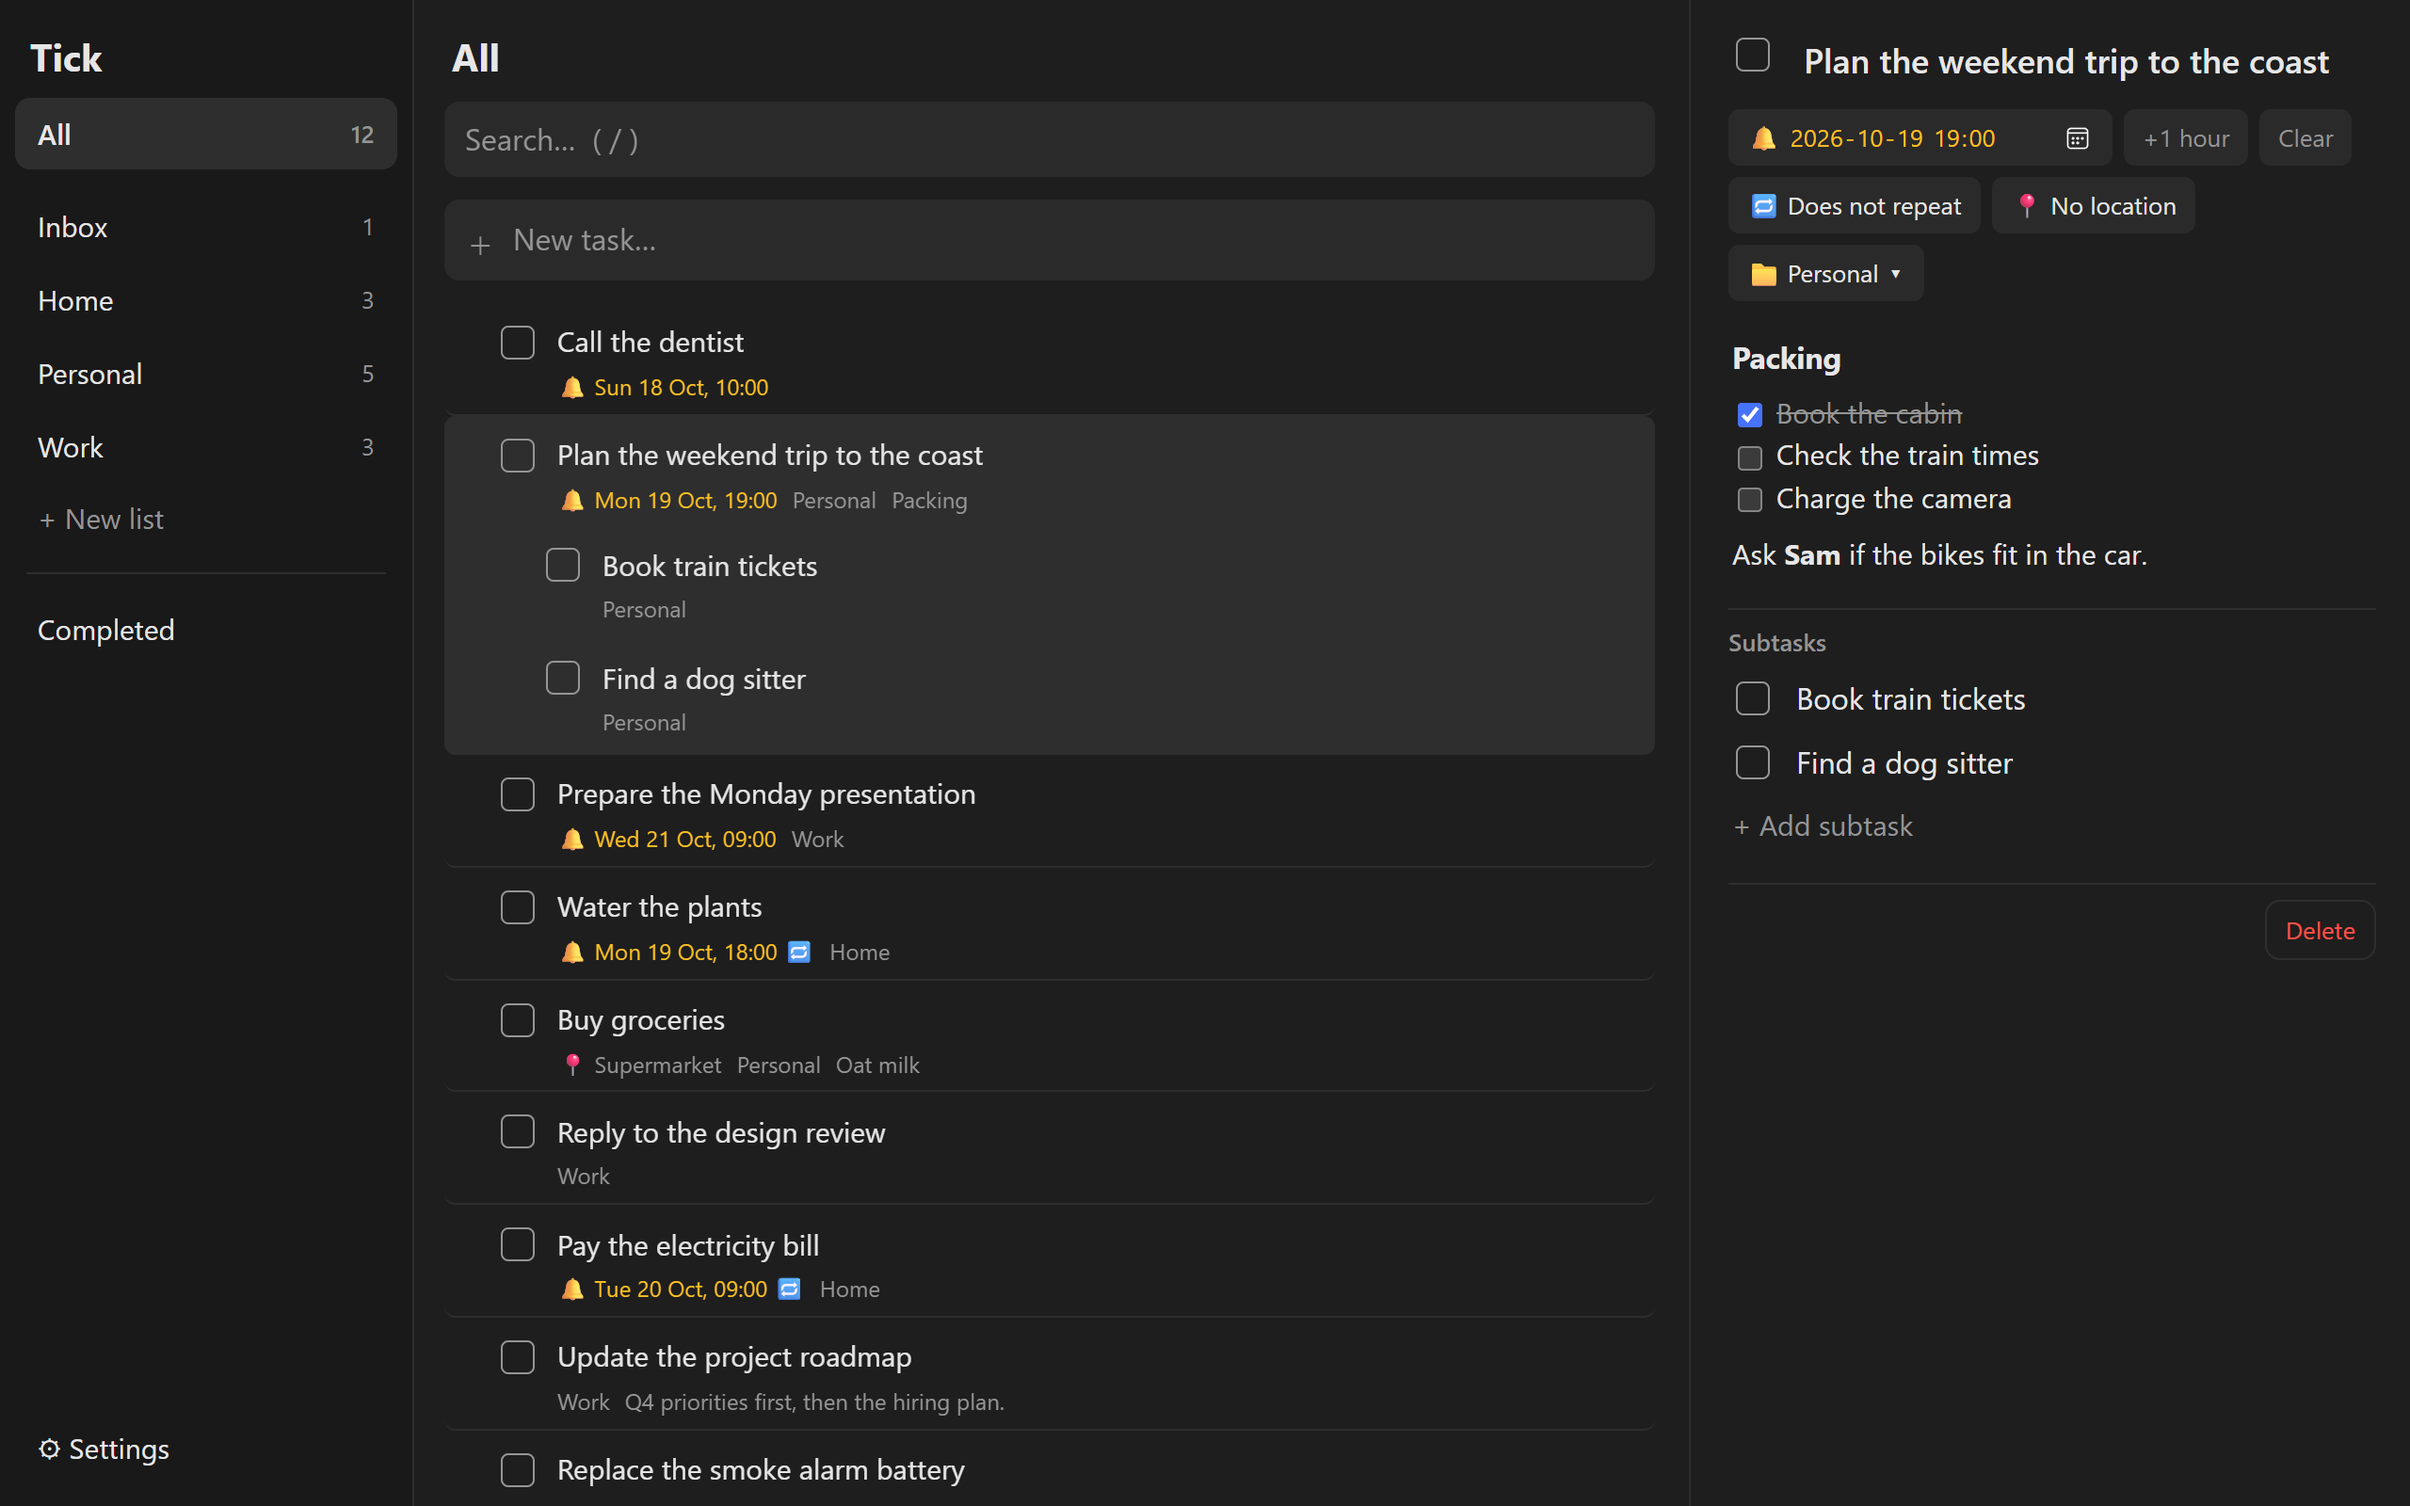
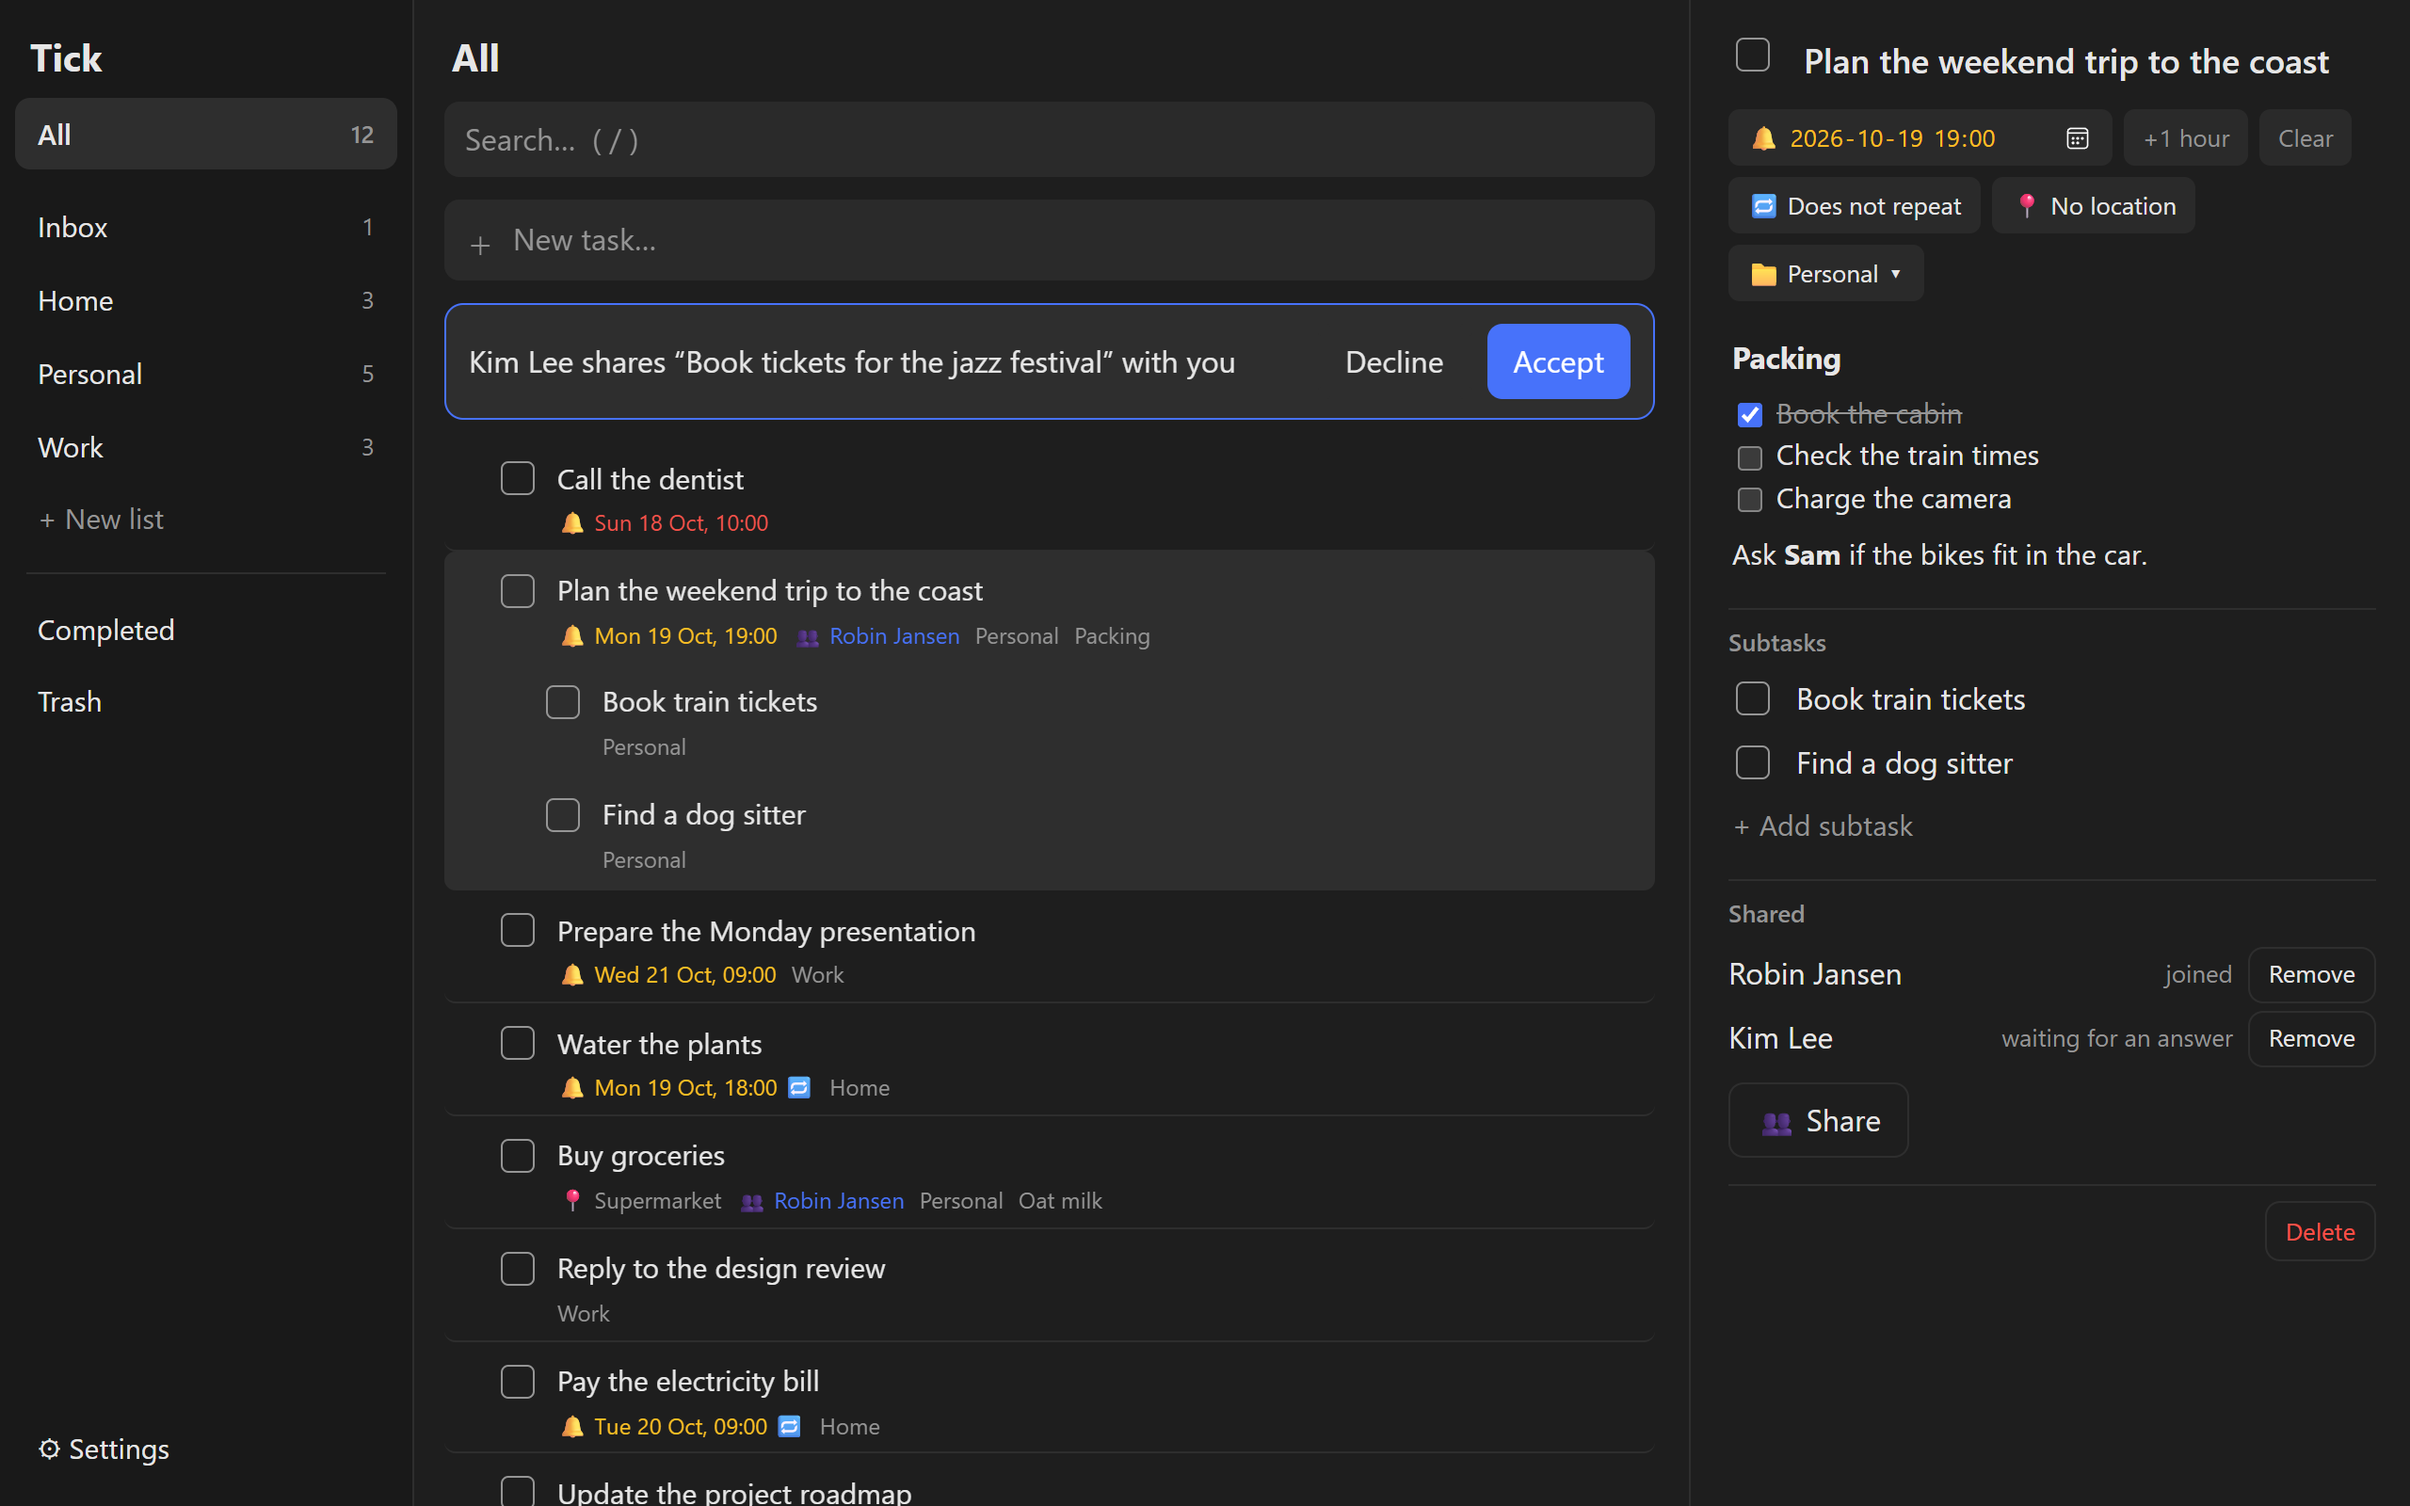
README: delen, prullenbak en andere nieuwe features, met screenshots
Nieuwe screenshots van de deeldialoog en de prullenbak, en een vernieuwde
desktop-dark met een uitnodiging en een gedeelde taak. Gemaakt op een lokale
instantie met verzonnen demo-accounts en -taken.

diff --git a/README.md b/README.md
@@ -7,9 +7,17 @@ A to-do app you host yourself on Cloudflare: tasks, lists, reminders with push n
 
 ## Screenshots
 
-![Tick on the desktop in dark mode: lists in the sidebar, the task list in the middle and an open task on the right](docs/screenshots/desktop-dark.png)
+![Tick on the desktop in dark mode: lists in the sidebar, the task list in the middle and an open shared task on the right](docs/screenshots/desktop-dark.png)
 
-**On the desktop** you get three columns: your lists on the left, the tasks in the middle and the open task on the right. A task can have a reminder (🔔), a repeat rule (🔁), a list and subtasks. The notes are markdown, so a checklist in a note can be ticked off right there.
+**On the desktop** you get three columns: your lists on the left, the tasks in the middle and the open task on the right. A task can have a reminder (🔔), a repeat rule (🔁), a list and subtasks. The notes are markdown, so a checklist in a note can be ticked off right there. Click a task and you can edit its title right in the list. Tick something off and a little burst of confetti comes out of the checkbox.
+
+![The share dialog: pick someone, then choose a shared task or a copy](docs/screenshots/sharing.png)
+
+**Sharing** works between the accounts on your Tick. Pick someone from the list (or type a name or email address) and choose *Shared*, one task for both of you, where done is done for everyone, or *Copy*, which gives them their own copy. They get an invitation at the top of their list to accept or decline. The task shows who it is shared with, and a reminder on a shared task reaches everyone on it. The owner can remove people; the others can stop sharing whenever they like.
+
+![The trash with deleted tasks, each with Restore and Delete for good](docs/screenshots/trash.png)
+
+**The trash** keeps deleted tasks for 30 days. Restore one, delete it for good, or empty the trash in one go.
 
 ![Tick in light mode with a task that has a location reminder](docs/screenshots/desktop-light.png)
 
@@ -30,12 +38,14 @@ A to-do app you host yourself on Cloudflare: tasks, lists, reminders with push n
 
 ## Features
 - Tasks with lists, one level of subtasks, drag to sort, and search.
-- Several accounts on one Tick; share a task with someone as one shared task (done is done for everyone) or as a separate copy. Deleted tasks stay in a trash for 30 days.
-- Reminders with web push; a reminder can repeat (daily, weekly, monthly, yearly, with custom rules).
+- Several accounts on one Tick; share a task with someone as one shared task (done is done for everyone) or as a separate copy. They accept or decline the invitation, and reminders on a shared task go to everyone on it.
+- A trash: deleted tasks stay there for 30 days; restore them, delete them for good, or empty the trash.
+- Reminders with web push; a reminder can repeat (daily, weekly, monthly, yearly, with custom rules). A new reminder starts at the next whole hour.
 - Notes in markdown, with clickable checklists.
 - Works offline as an installable web app (PWA); changes sync when you are back online.
-- Desktop layout with a sidebar and detail panel; a full-screen task view on mobile.
-- Optional Android app: a home-screen widget, quick add, and location reminders (notify me when I arrive at or leave a place).
+- Desktop layout with a sidebar and detail panel, where you edit a task's title right in the list; a full-screen task view on mobile.
+- Confetti when you tick off a task (not when your device asks for reduced motion).
+- Optional Android app: a home-screen widget, quick add, and location reminders (notify me when I arrive at or leave a place). Notifications show up as Tick instead of Chrome, and you link the app with one tap on *Link* in the web app.
 - An inbox API for automations (`POST /api/inbox` with its own token).
 - A settings page in the app: display (theme, text size, spacing), language per device, time zone, password, keys for your phone and automations, a view of your devices, and backup, restore and TickTick import. After the install you rarely need the config again.
 - English and Dutch; your own time zone.
